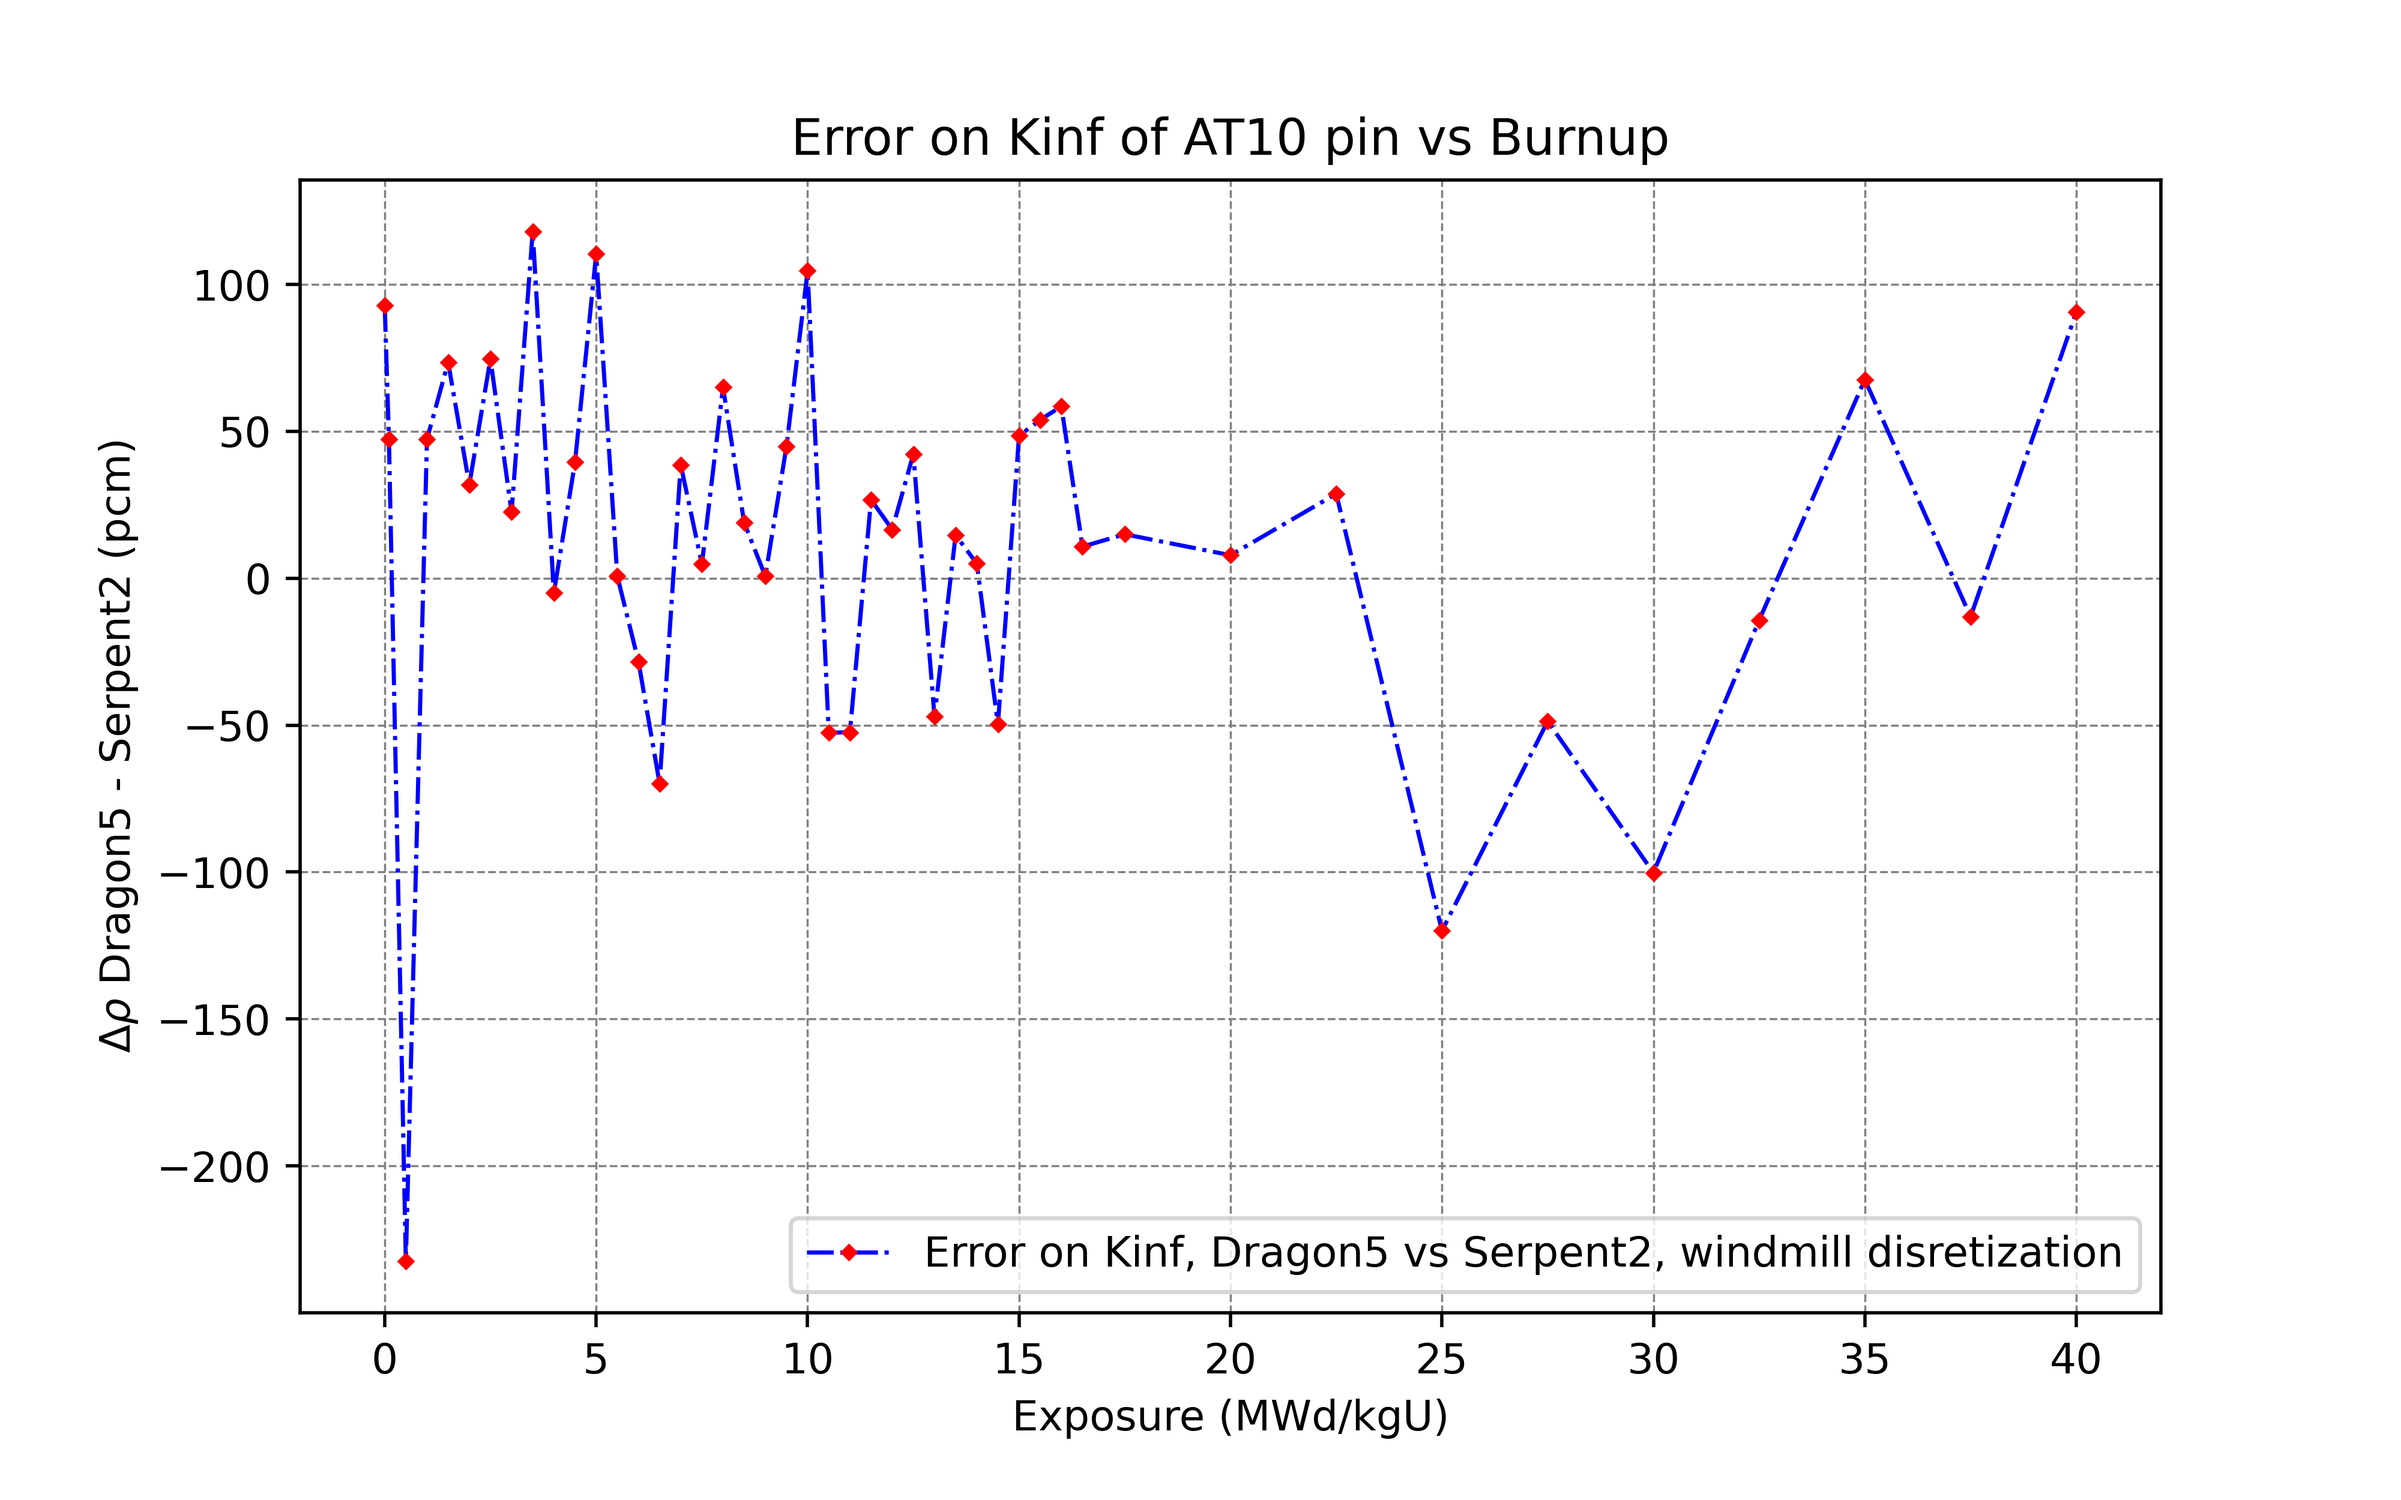
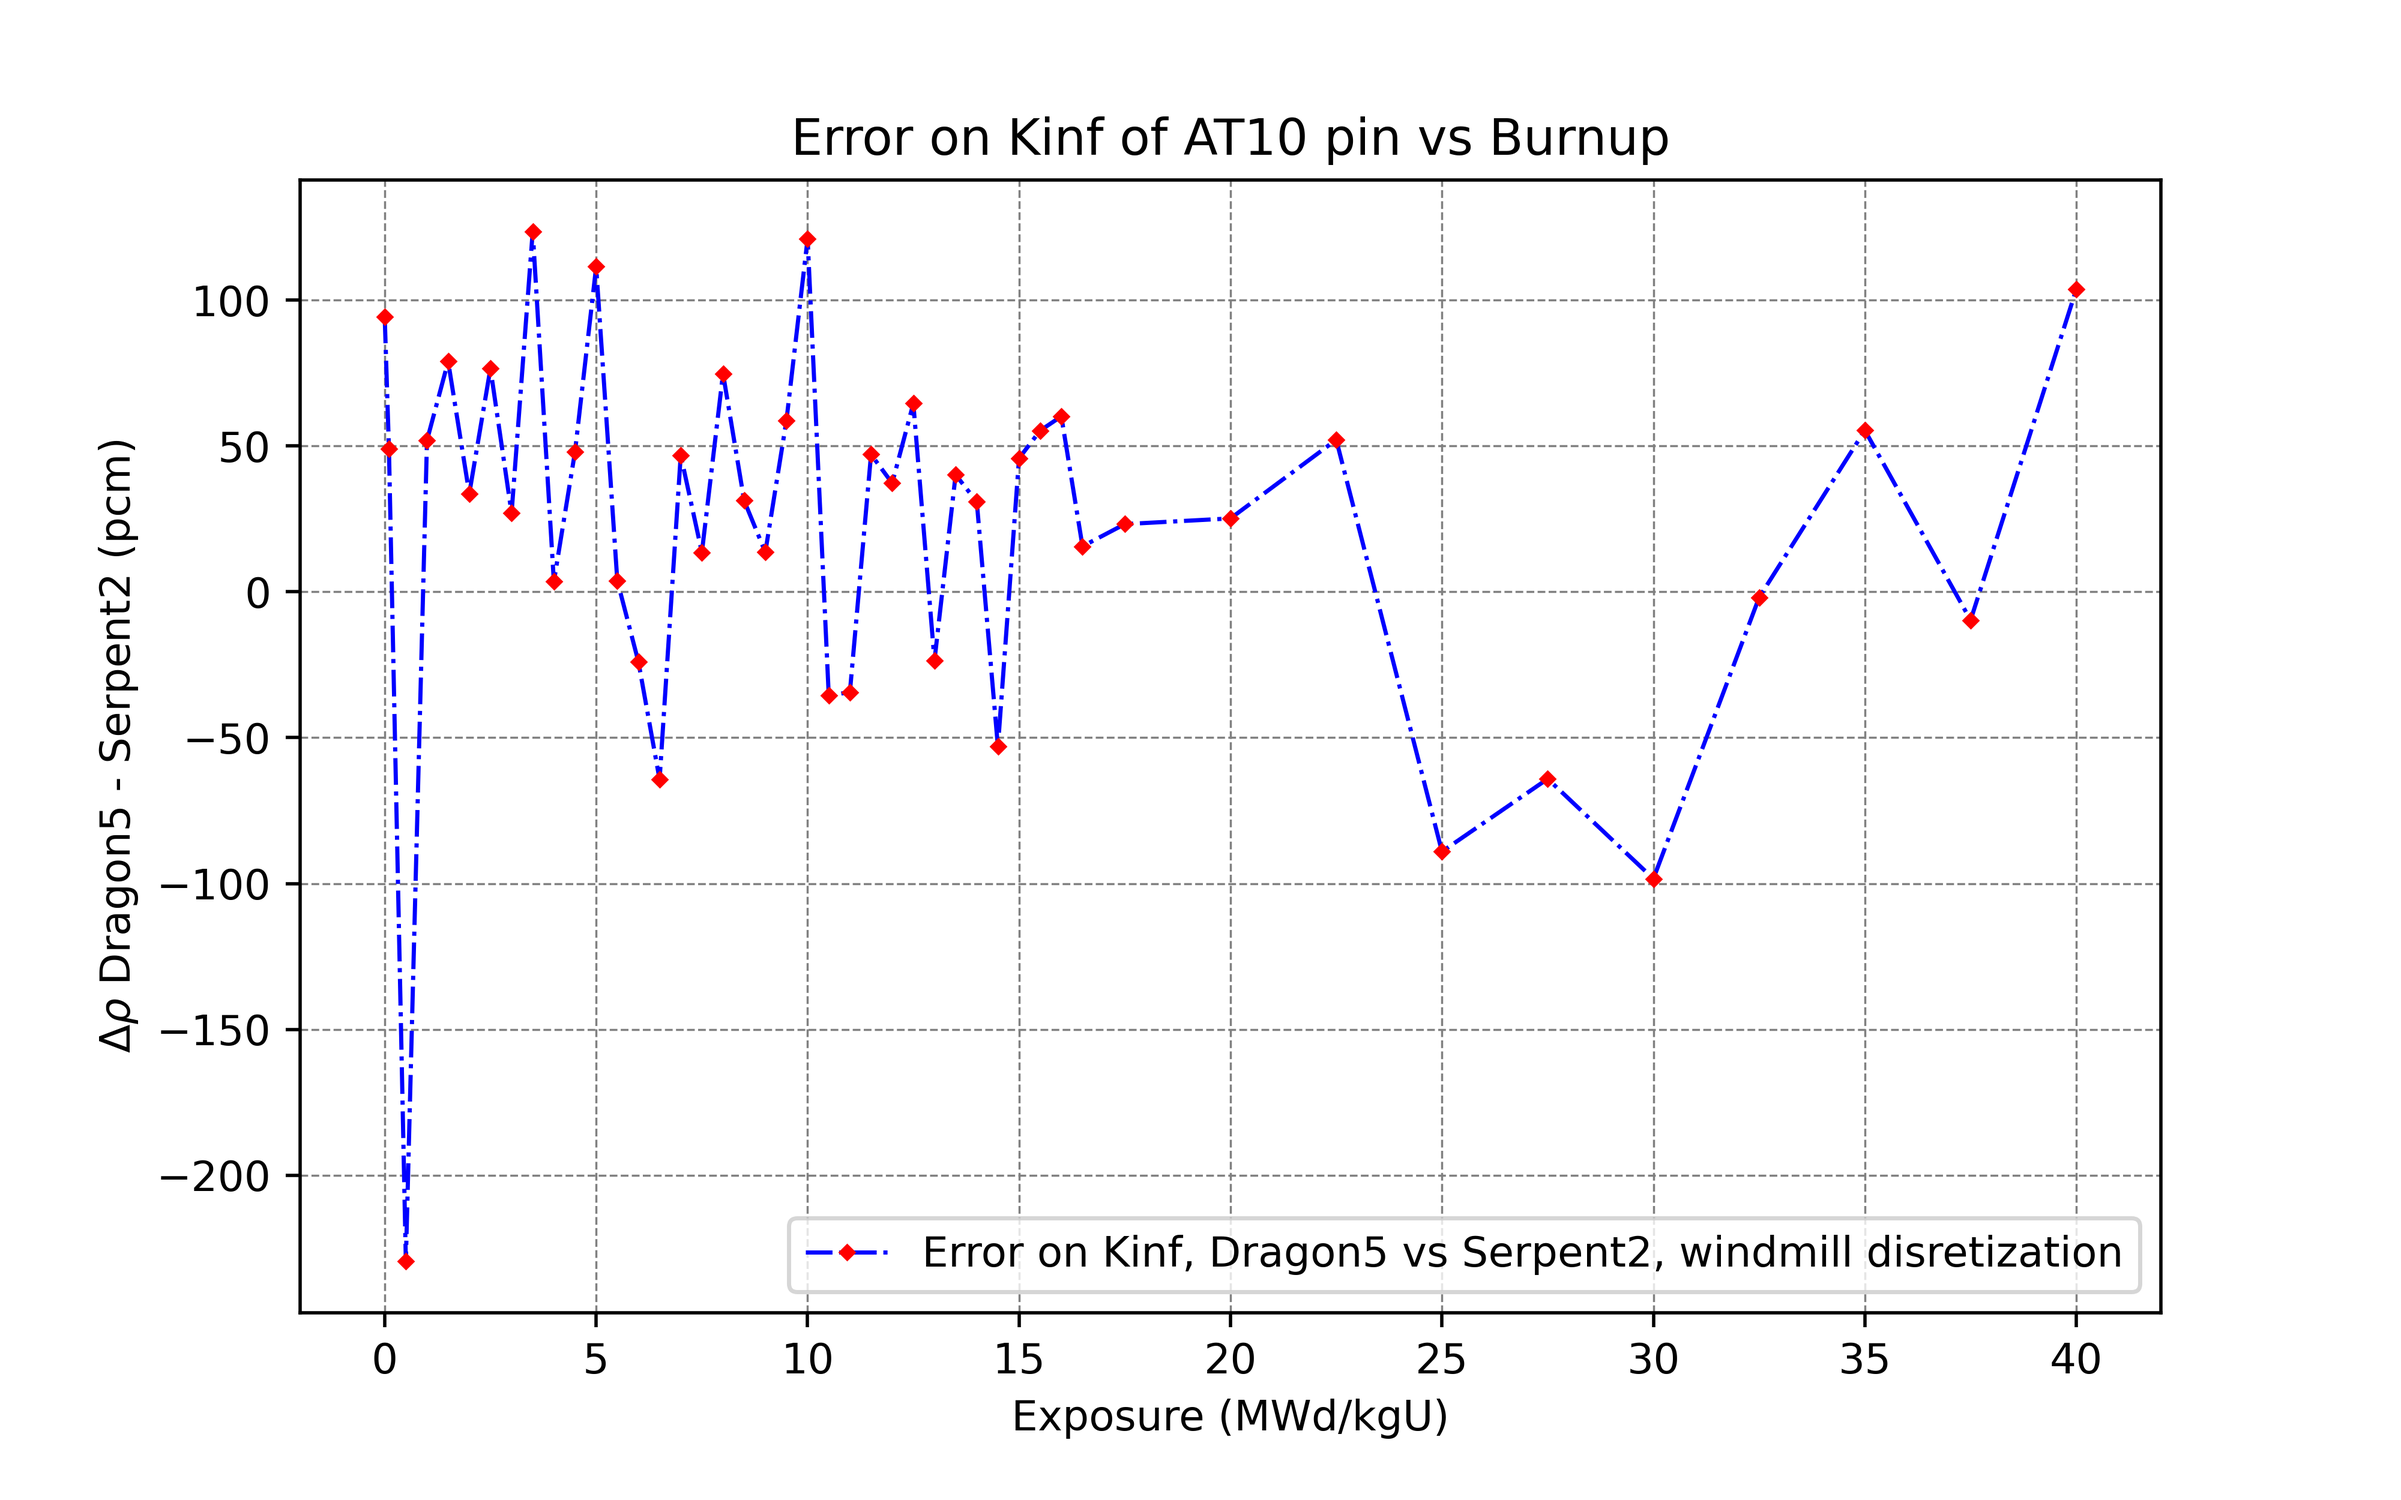
oui

diff --git a/Post_Treatment/post_treat_Keff_BU.py b/Post_Treatment/post_treat_Keff_BU.py
@@ -123,7 +123,7 @@ Dragon5_plotter("Kinf_AT10_pincell_40void.png","Kinf AT-10 Pincell, 40% void", B
 Loading plottable data
 """
 
-input_file = "Dragon5\\AT-10_pin_SALT.result"
+input_file = "Dragon5\\AT-10_pin1_SALT.result"
 BU,Keff_SALT_MAV = extract_Bu_Keff_Dragon(load_data(input_file))
 
 Bu_renorm = BU/10**3
